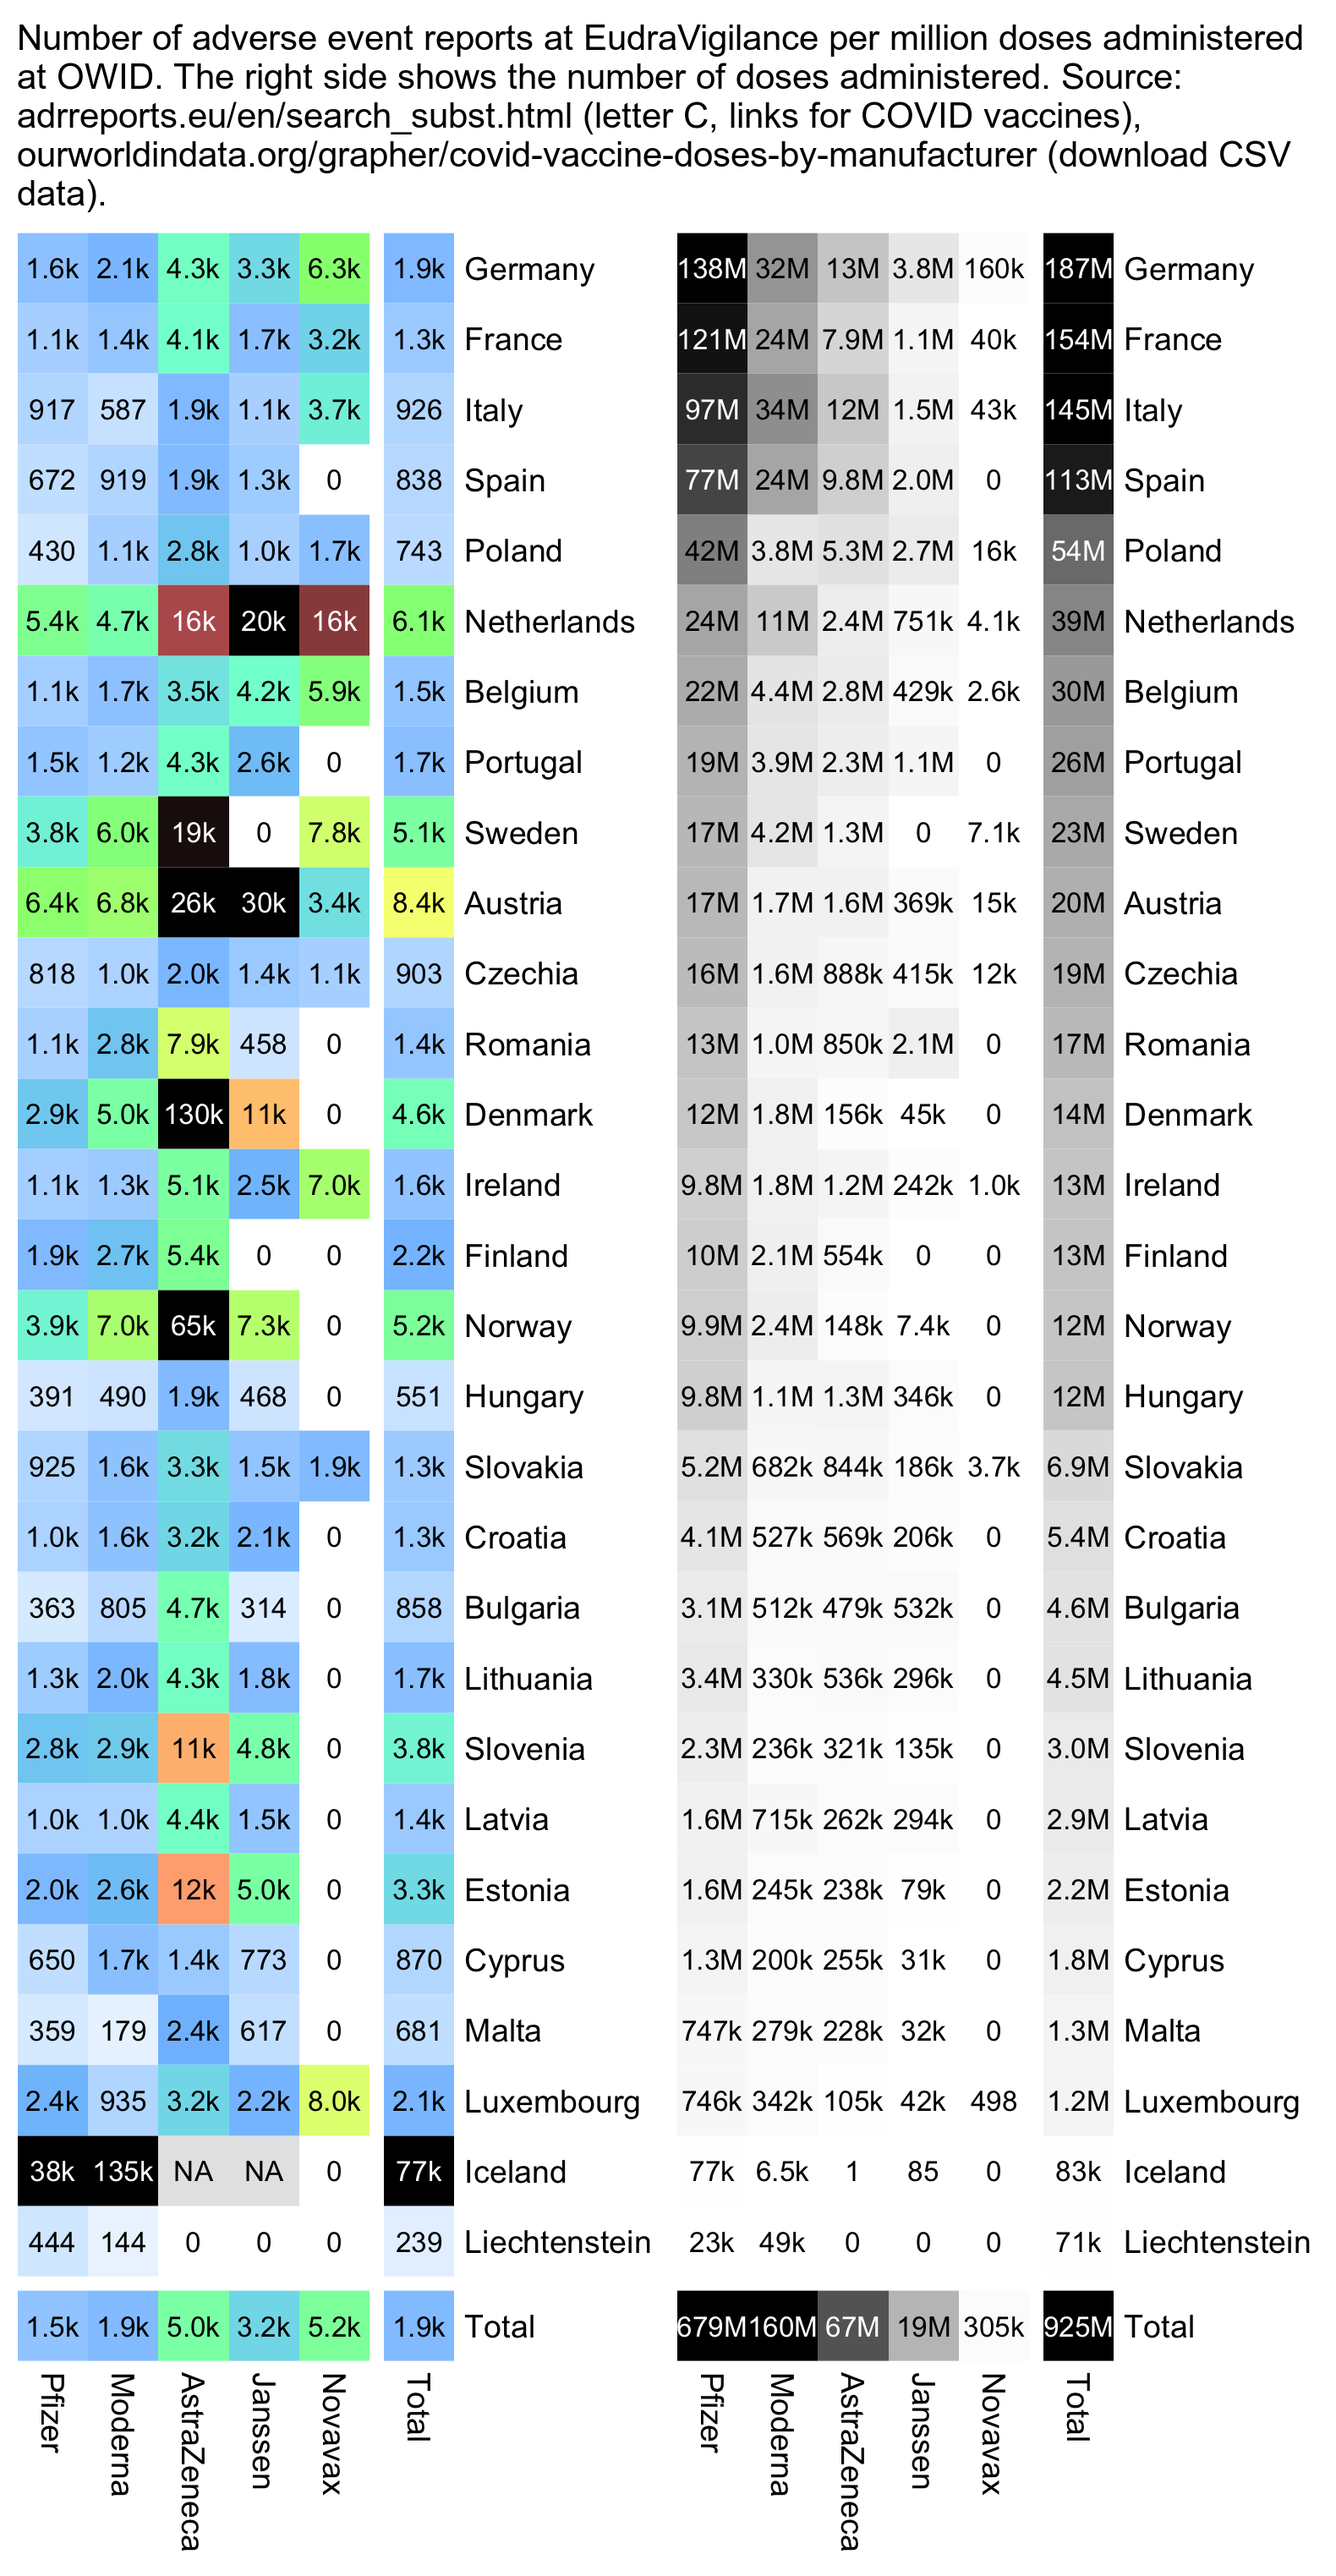
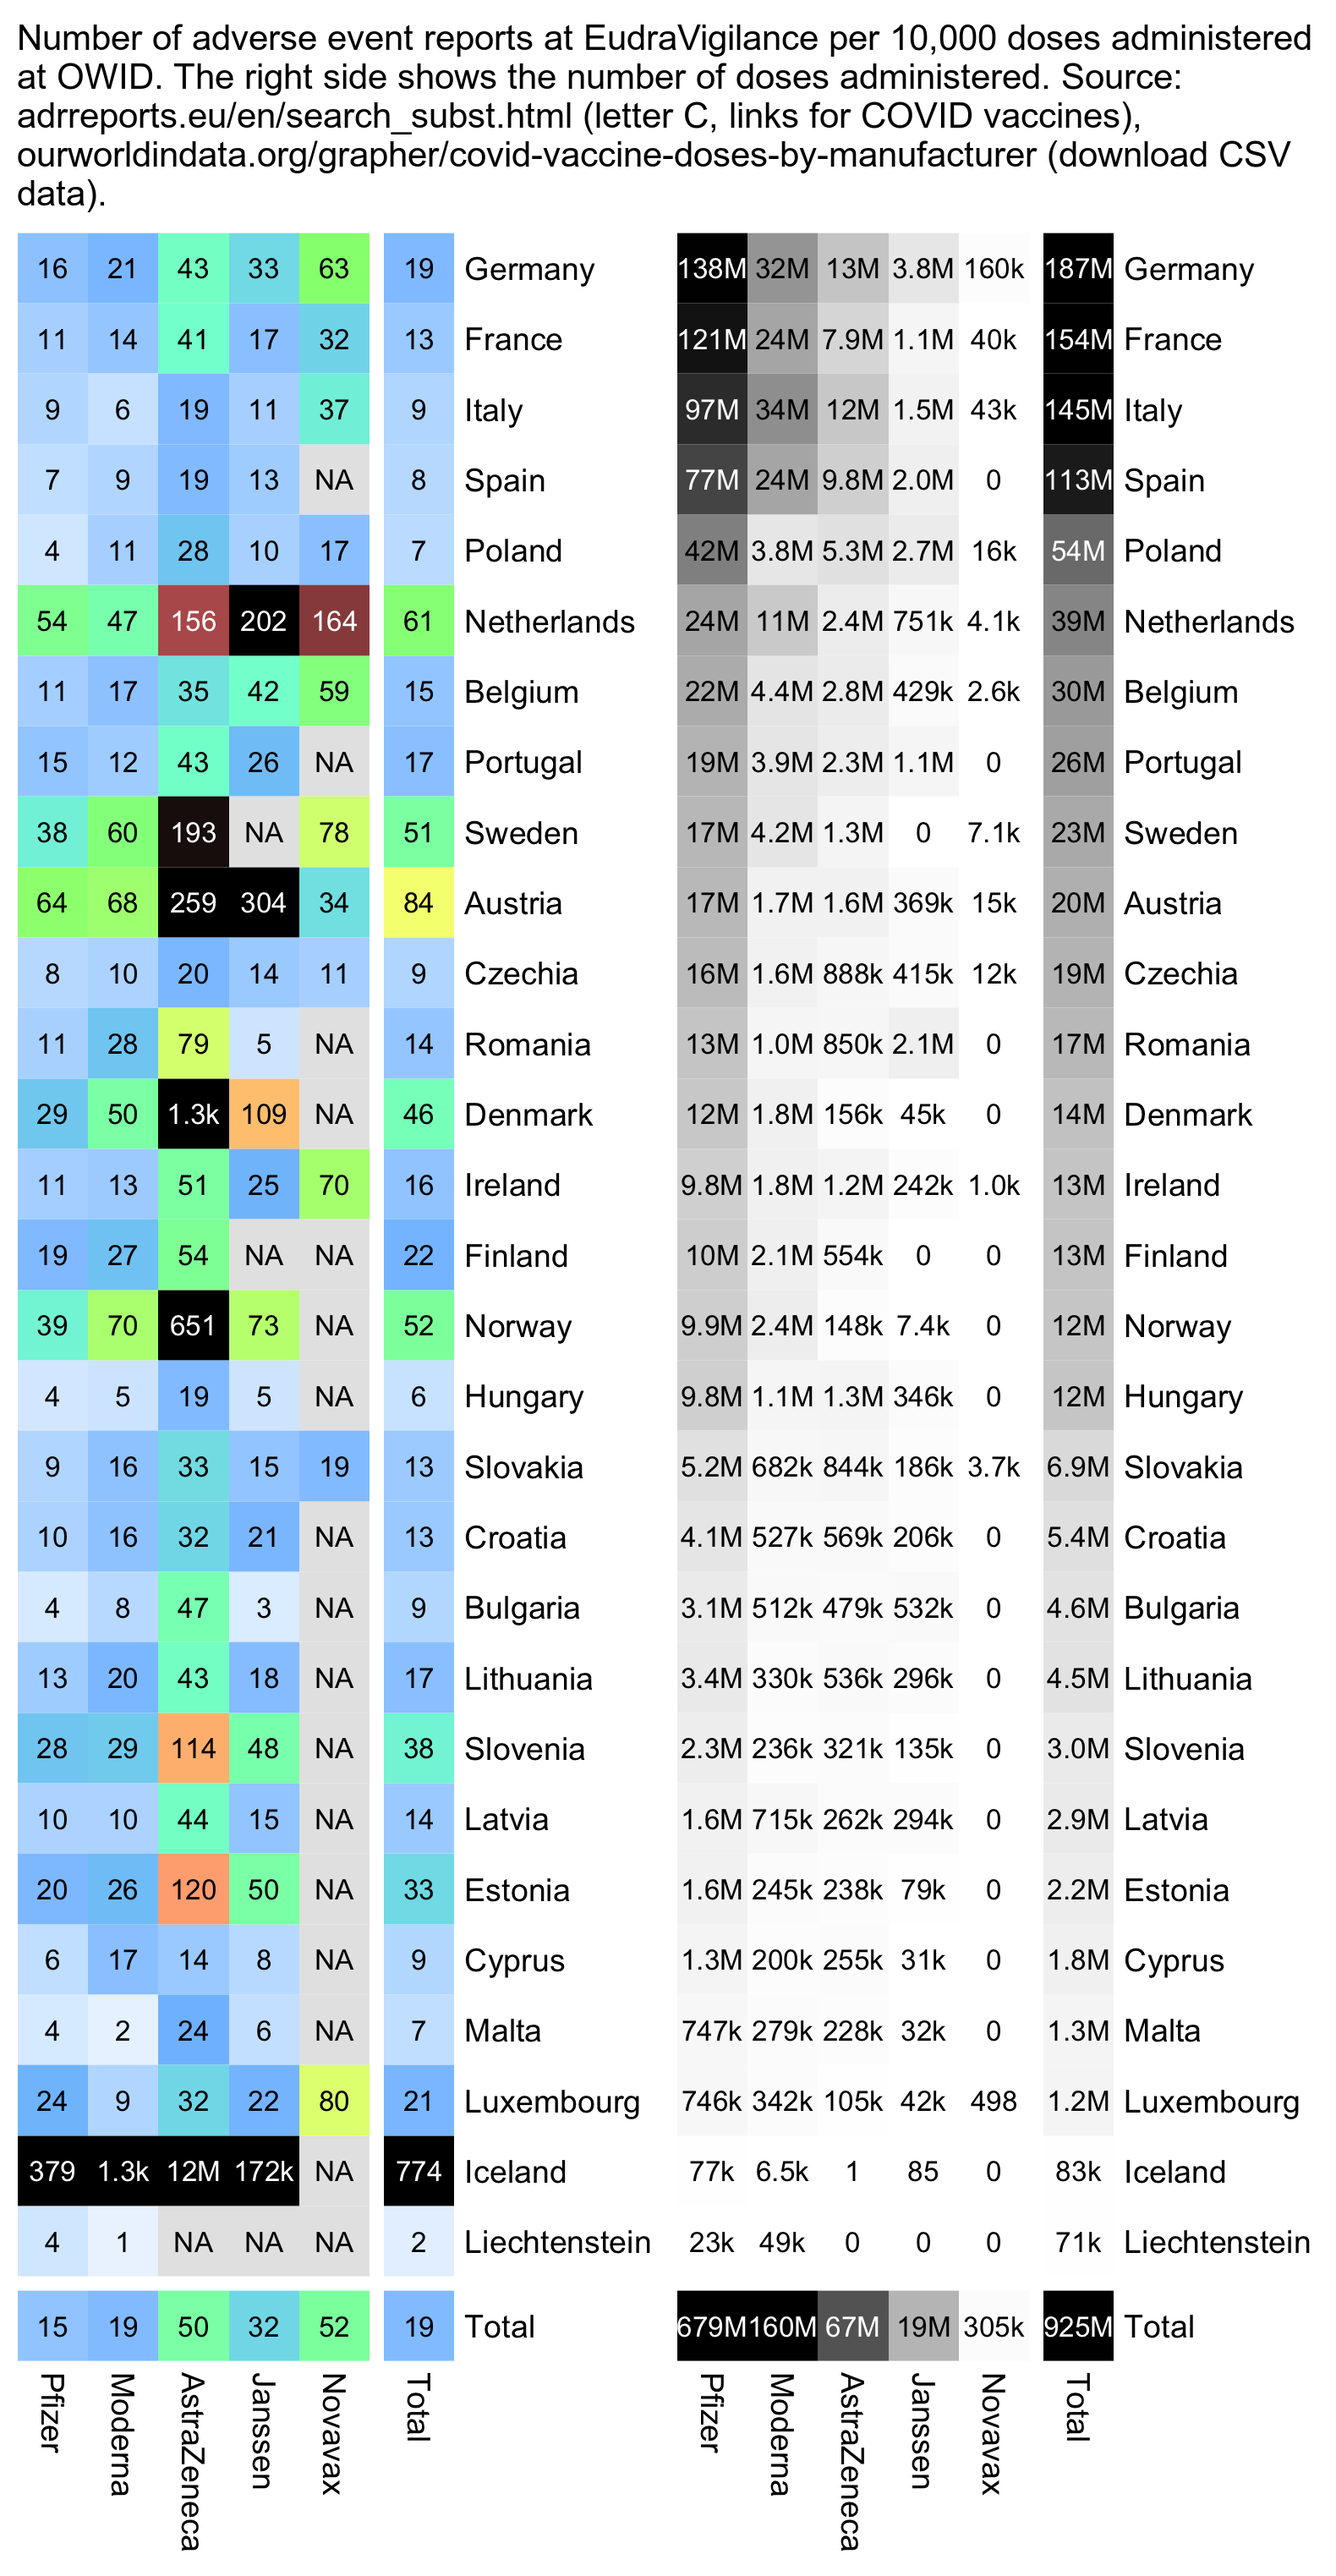
a

diff --git a/czech4.html b/czech4.html
@@ -619,10 +619,12 @@ Total
 </div>
 <pre>library(data.table)
 
-kimi=\(x){e=floor(log10(ifelse(x==0,1,abs(x))));e2=pmax(e,0)%/%3+1;x[]=ifelse(abs(x)&lt;1e3,round(x),paste0(sprintf(paste0(&quot;%.&quot;,ifelse(e%%3==0,1,0),&quot;f&quot;),x/1e3^(e2-1)),c(&quot;&quot;,&quot;k&quot;,&quot;M&quot;,&quot;B&quot;,&quot;T&quot;)[e2]));x}
+kimi=\(x){na=is.na(x);x[na]=0;e=floor(log10(ifelse(x==0,1,abs(x))));e2=pmax(e,0)%/%3+1;x[]=ifelse(abs(x)&lt;1e3,round(x),paste0(sprintf(paste0(&quot;%.&quot;,ifelse(e%%3==0,1,0),&quot;f&quot;),x/1e3^(e2-1)),c(&quot;&quot;,&quot;k&quot;,&quot;M&quot;,&quot;B&quot;,&quot;T&quot;)[e2]));x[na]=&quot;NA&quot;;x}
 
 owid=fread(&quot;https://raw.githubusercontent.com/owid/covid-19-data/master/public/data/vaccinations/vaccinations-by-manufacturer.csv&quot;)
-owid=unique(owid[order(-date)],by=&quot;location&quot;)[,.(country=location,doses=total_vaccinations,type=vaccine)]
+owid=unique(owid[order(-date)],by=c(&quot;location&quot;,&quot;vaccine&quot;))
+owid=owid[,.(country=location,doses=total_vaccinations,type=vaccine)]
+
 owid$type[owid$type==&quot;Pfizer/BioNTech&quot;]=&quot;Pfizer&quot;
 owid$type[owid$type==&quot;Oxford/AstraZeneca&quot;]=&quot;AstraZeneca&quot;
 owid$type[owid$type==&quot;Johnson&amp;Johnson&quot;]=&quot;Janssen&quot;
@@ -631,14 +633,15 @@ eu=fread(&quot;http://sars2.net/f/eudracountry.csv&quot;)
 eu$country[eu$country==&quot;Czech Republic&quot;]=&quot;Czechia&quot;
 
 me=merge(eu,owid)
+
 me[,country:=factor(country,me[,.(sum(doses)),country][order(-V1),country])]
 me[,type:=factor(type,me[,.(sum(doses)),type][order(-V1),type])]
+
 me=rbind(me,me[,.(reports=sum(reports),doses=sum(doses),country=&quot;Total&quot;),type])
 me=rbind(me,me[,.(reports=sum(reports),doses=sum(doses),type=&quot;Total&quot;),country])
 
-m=me[doses&gt;0,xtabs(reports/doses*1e6~country+type)]
-disp=kimi(m);exp=.7;maxcolor=2e4
-hide=m&gt;1e6;m[hide]=disp[hide]=NA
+m=me[,tapply(reports/doses*1e4,.(country,type),c)]
+m[is.infinite(m)]=NA;disp=kimi(m);exp=.7;maxcolor=200
 pal=hsv(c(21,21,21,16,11,6,3,0,0,0)/36,c(0,.25,rep(.5,8)),c(rep(1,8),.5,0))
 
 pheatmap::pheatmap(m^exp,filename=&quot;i1.png&quot;,display_numbers=disp,
@@ -661,7 +664,7 @@ pheatmap::pheatmap(m^exp,filename=&quot;i2.png&quot;,display_numbers=disp,
   breaks=seq(0,maxcolor^exp,,256),
   colorRampPalette(pal)(256))
 
-cap=&quot;Number of adverse event reports at EudraVigilance per million doses administered at OWID. The right side shows the number of doses administered. Source: adrreports.eu/en/search_subst.html (letter C, links for COVID vaccines), ourworldindata.org/grapher/covid-vaccine-doses-by-manufacturer (download CSV data).&quot;
+cap=&quot;Number of adverse event reports at EudraVigilance per 10,000 doses administered at OWID. The right side shows the number of doses administered. Source: adrreports.eu/en/search_subst.html (letter C, links for COVID vaccines), ourworldindata.org/grapher/covid-vaccine-doses-by-manufacturer (download CSV data).&quot;
 system(paste0(&quot;magick \\( i1.png -gravity east -chop 10x \\) \\( i2.png -gravity west -chop 10x \\) +append 0.png;w=`identify -format %w 0.png`;pad=20;magick -pointsize 42 -interline-spacing -2 -font Arial \\( -size $[w-pad*2]x caption:&#39;&quot;,cap,&quot;&#39; -splice $[pad]x20 \\) 0.png -append 1.png&quot;))</pre>
 <p>However this analysis was not adjusted for age. In VAERS reports most EEA countries have a higher average age for Moderna than Pfizer, even though in most countries the difference isn't as big as in the Czech Republic:</p>
 <pre>va=fread(&quot;AllVAERSDataCSVS/NonDomesticVAERSDATA.csv&quot;)
